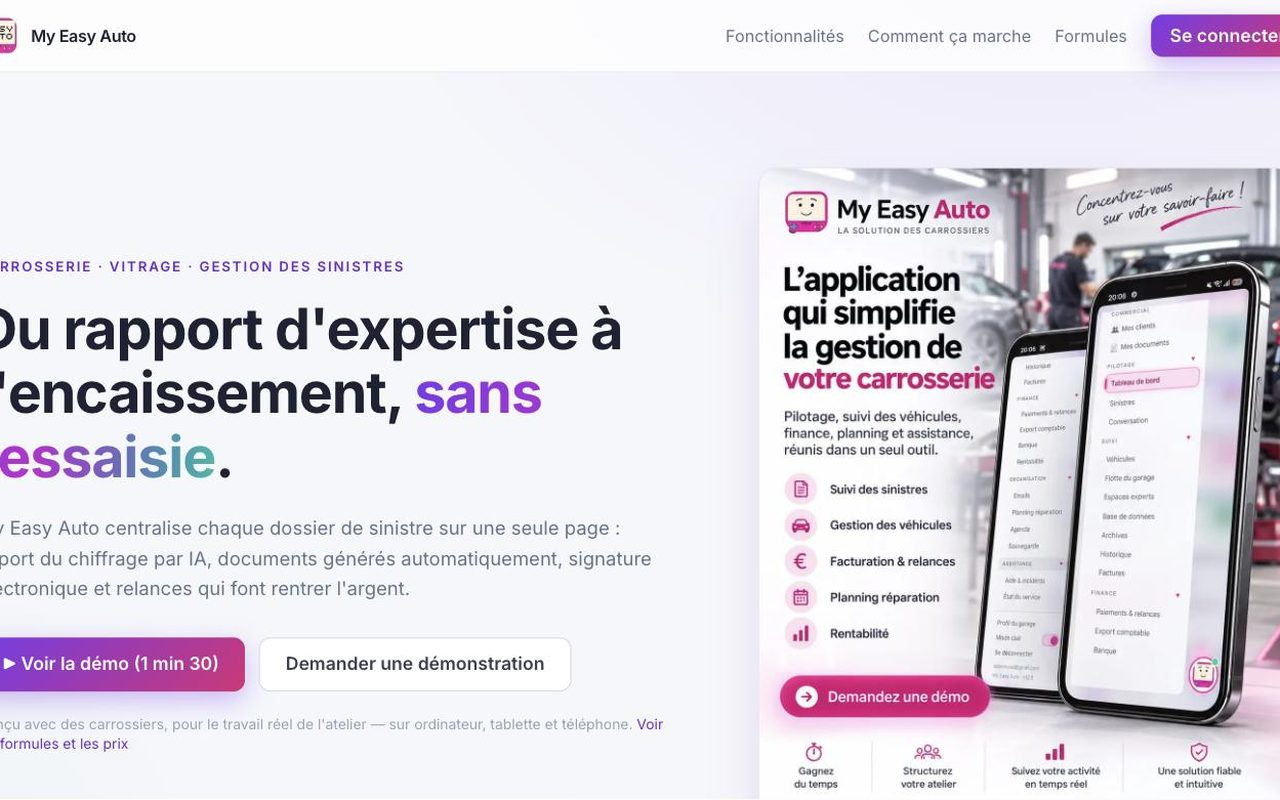
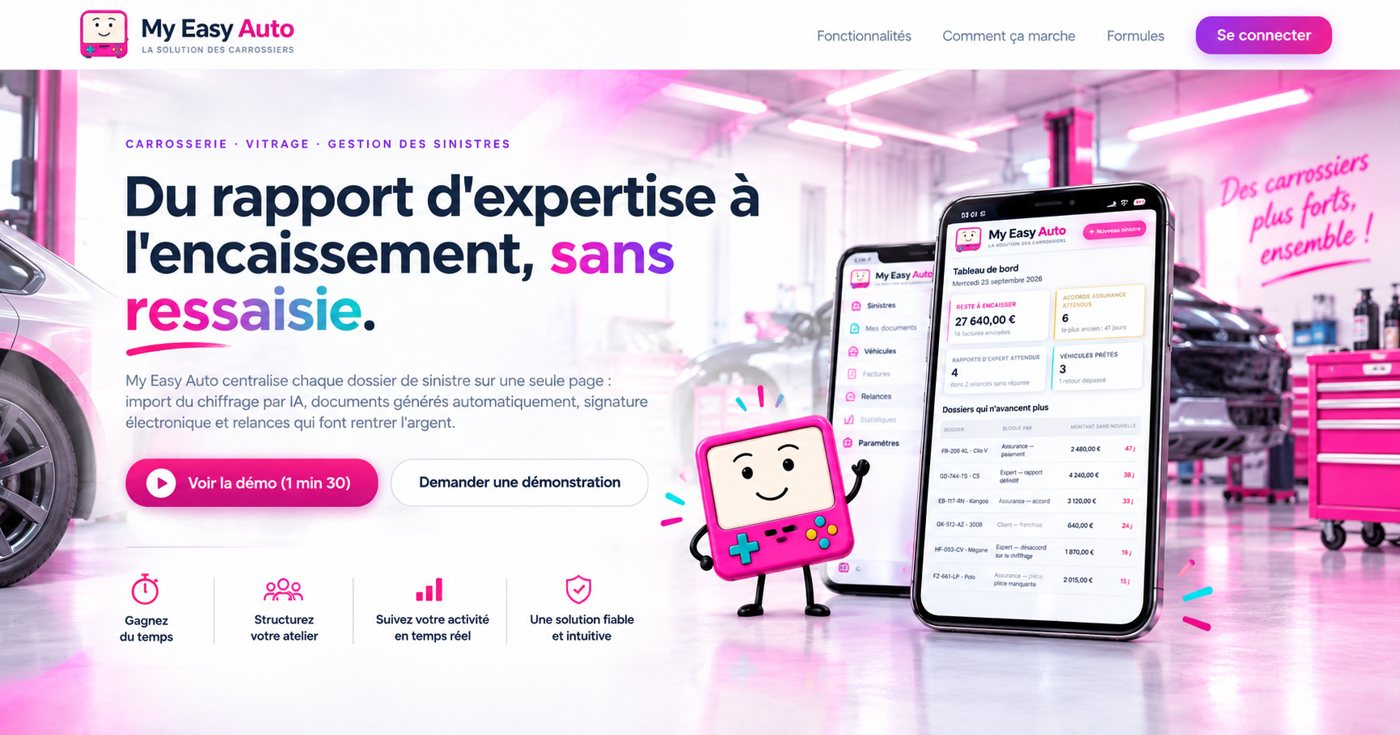
Accueil immersif : My Easy Auto avec la capture du nouveau site et la mascotte détourée
Claude-Session: https://claude.ai/code/session_01Qrgucs3z6CScMxsbaRaiWF

diff --git a/assets/css/immersif.css b/assets/css/immersif.css
@@ -229,7 +229,12 @@ main { position: relative; z-index: 2; }
 .app__visual--phone { aspect-ratio: auto; background: none; border: 0; clip-path: none; overflow: visible; display: grid; place-items: center; padding: 30px 0 10px; }
 .phone { position: relative; margin: 0; width: min(300px, 70%); aspect-ratio: 9 / 19; border-radius: 40px; padding: 10px; background: #0a0b10; border: 1px solid rgba(236, 228, 212, 0.28); box-shadow: 0 60px 110px -40px rgba(0, 0, 0, 0.9), inset 0 0 0 1px rgba(0, 0, 0, 0.8), 0 0 0 1px rgba(255, 255, 255, 0.06); clip-path: inset(0 0 100% 0 round 40px); }
 .app__visual--phone .phone img { width: 100%; height: 100%; object-fit: cover; object-position: top; border-radius: 31px; transform: none; }
-html.no-gsap .phone { clip-path: none; }
+html.no-gsap .phone, html.no-gsap .window--static { clip-path: none; }
+.app__visual--site { aspect-ratio: auto; background: none; border: 0; clip-path: none; overflow: visible; padding: 10px 0 40px 0; }
+.app__visual--site .window--static { position: relative; left: auto; right: auto; top: auto; height: auto; margin: 0; transform: none; opacity: 1; filter: none; transition: none; clip-path: inset(0 0 100% 0 round 12px); }
+.app__visual--site .window--static img { width: 100%; height: auto; display: block; transform: none; object-fit: contain; }
+.app__visual--site .mascot { position: absolute; left: -4%; bottom: -6%; width: clamp(120px, 17vw, 190px); height: auto; object-fit: contain; transform: rotate(-6deg); filter: drop-shadow(0 24px 30px rgba(0, 0, 0, 0.55)); }
+@media (max-width: 860px) { .app__visual--site .mascot { left: 0; width: 30vw; } }
 .app__visual--phone .waty { position: absolute; left: 6%; bottom: 2%; width: clamp(130px, 22vw, 210px); height: auto; object-fit: contain; transform: rotate(-8deg); filter: drop-shadow(0 24px 30px rgba(0, 0, 0, 0.55)); }
 @media (max-width: 860px) { .app__visual--phone .waty { left: 2%; width: 34vw; } }
 .app__kind { color: var(--amber-soft); font-size: 0.85rem; letter-spacing: 0.06em; text-transform: uppercase; }
@@ -391,7 +396,7 @@ html.no-gsap .phone { clip-path: none; }
 .rule { height: 1px; background: var(--line-strong); transform-origin: left; transform: scaleX(0); }
 
 @media (prefers-reduced-motion: reduce) {
-  .phone { clip-path: none; }
+  .phone, .window--static { clip-path: none; }
   .reveal { opacity: 1; transform: none; }
   .hero__title .line > span, .lines .line > span, .intro__word span { transform: none; }
   .app__visual { clip-path: none; }

diff --git a/index.html b/index.html
@@ -264,7 +264,10 @@
 
       <div class="apps">
         <article class="app">
-          <div class="app__visual"><img src="/assets/img/realisations/my-easy-auto.jpg" alt="Tableau de bord du logiciel My Easy Auto" loading="lazy"></div>
+          <div class="app__visual app__visual--site">
+            <figure class="window window--static"><div class="window__bar"><span>myeasyauto.fr</span></div><img src="/assets/img/realisations/my-easy-auto.jpg" alt="Page d'accueil de myeasyauto.fr : du rapport d'expertise à l'encaissement, sans ressaisie" loading="lazy"></figure>
+            <img class="mascot" src="/assets/img/realisations/mascotte-mea.png" alt="La mascotte de My Easy Auto, une petite console rose souriante" loading="lazy">
+          </div>
           <div class="reveal">
             <p class="app__kind">Logiciel métier · en service · abonnement</p>
             <h3 class="app__title">My Easy Auto</h3>

diff --git a/assets/js/immersif.js b/assets/js/immersif.js
@@ -289,6 +289,13 @@
 
   /* ---------- Applications : révélation en rideau + zoom ---------- */
   gsap.utils.toArray(".app__visual").forEach((v) => {
+    const site = v.querySelector(".window--static");
+    if (site) {
+      gsap.to(site, { clipPath: "inset(0 0 0% 0 round 12px)", duration: 1.6, ease: "expo.inOut", scrollTrigger: { trigger: v, start: "top 78%" } });
+      const mascot = v.querySelector(".mascot");
+      if (mascot) gsap.fromTo(mascot, { scale: 0, rotate: -30 }, { scale: 1, rotate: -6, duration: 1.2, ease: "back.out(1.7)", scrollTrigger: { trigger: v, start: "top 60%" } });
+      return;
+    }
     const phone = v.querySelector(".phone");
     if (phone) {
       gsap.to(phone, { clipPath: "inset(0 0 0% 0 round 40px)", duration: 1.6, ease: "expo.inOut", scrollTrigger: { trigger: v, start: "top 78%" } });
